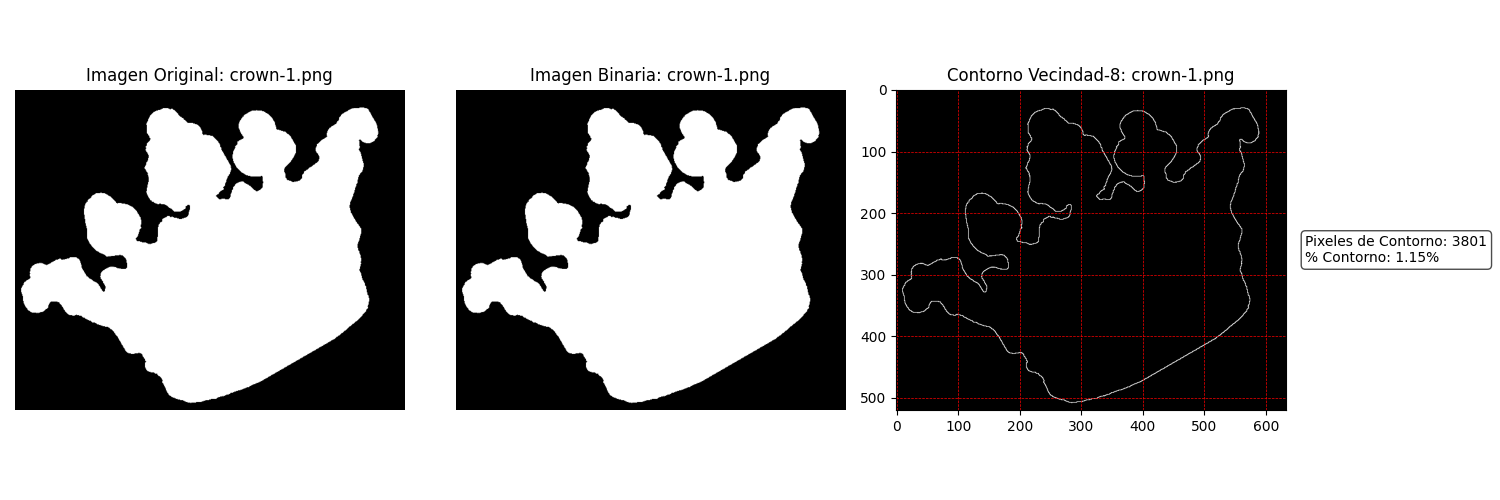
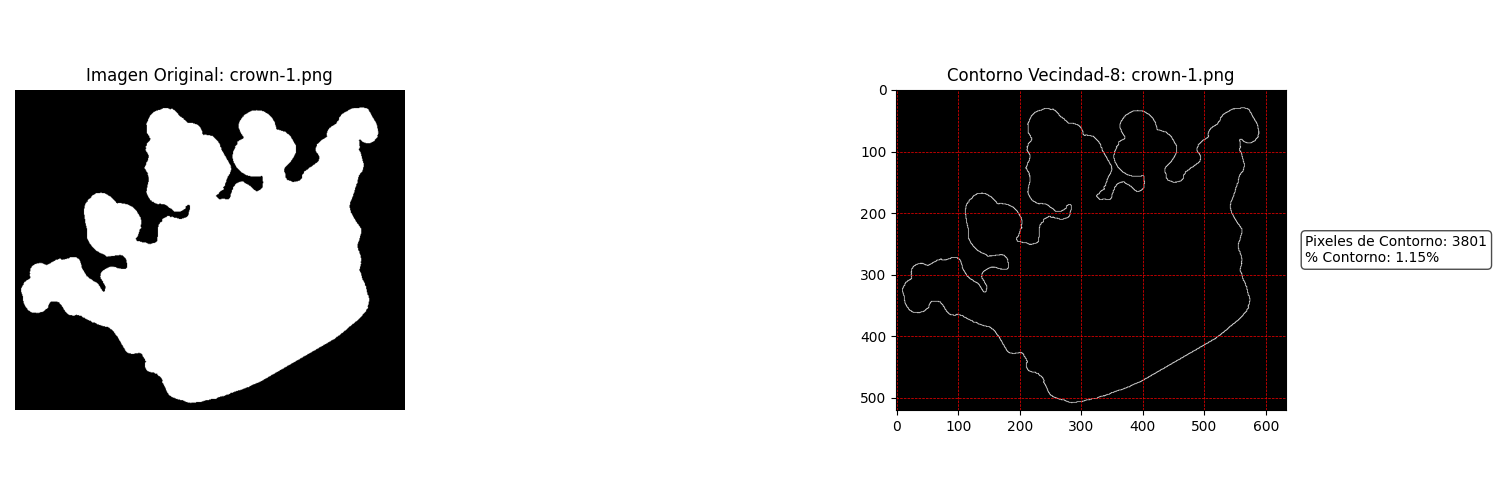
Ajuste en los archivos

Changed region(s): [[0.3067, 0.12, 0.5827, 0.84]]

diff --git a/Graficacion/contornoImagenes.py b/Graficacion/contornoImagenes.py
@@ -60,10 +60,10 @@ def graficar_contorno(imagen, nombre, contorno):
     plt.axis('off')
     
     # Imagen binaria
-    plt.subplot(132)
-    plt.imshow(imagen, cmap='gray')
-    plt.title(f'Imagen Binaria: {nombre}')
-    plt.axis('off')
+    #plt.subplot(132)
+    #plt.imshow(imagen, cmap='gray')
+    #plt.title(f'Imagen Binaria: {nombre}')
+    #plt.axis('off')
     
     # Contorno
     plt.subplot(133)

diff --git a/Graficacion/rotacionImagen.py b/Graficacion/rotacionImagen.py
@@ -71,7 +71,7 @@ def procesar_imagenes(directorio):
     os.makedirs('resultados', exist_ok=True)
     
     # Ángulos de rotación
-    angulos = [0, 45, 90, 135]
+    angulos = [0, 45, 135]
     
     # Almacenar resultados
     resultados = []
